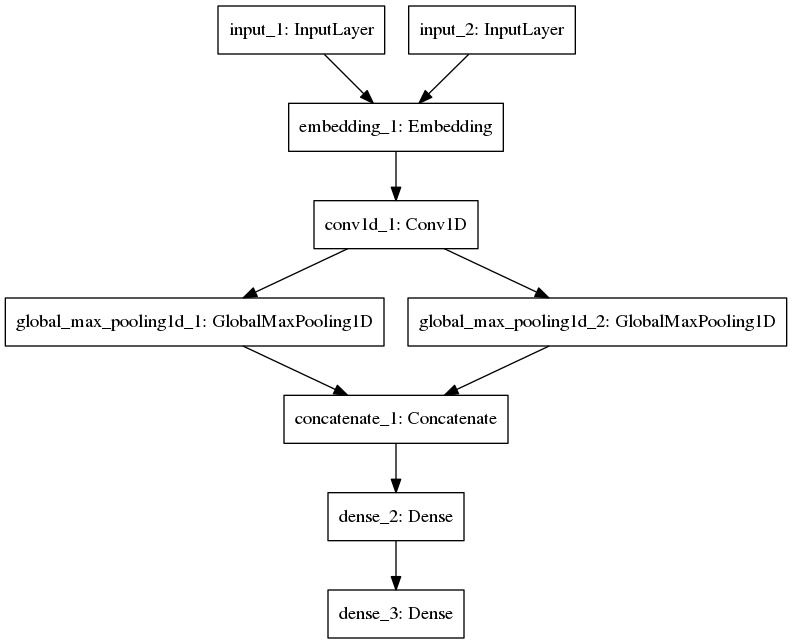
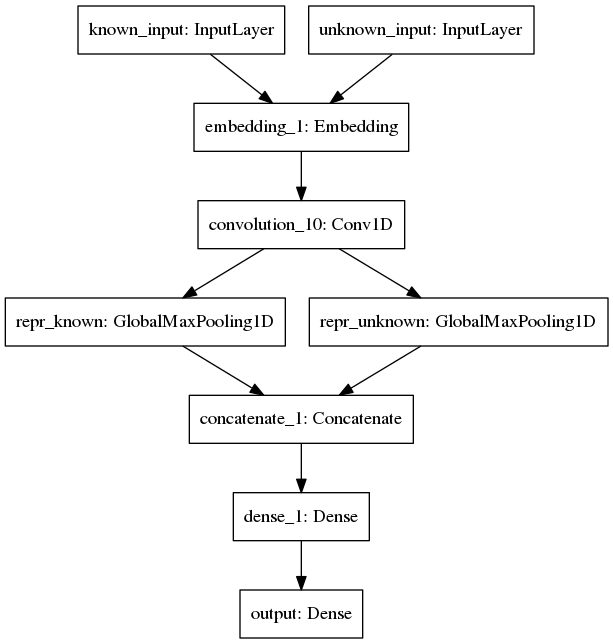
Add names to network 1

diff --git a/report/method.tex b/report/method.tex
@@ -41,13 +41,12 @@ illustrated in Figure \ref{fig:profile_based}.
     \label{fig:profile_based}
 \end{figure}
 
-We will generally use the instance based approach and we will generally use
-Authorship Verification. The reason we use an instance based approach is that it
-allows us to use extra information from each single text. For example writing
-style may change over time especially for secondary school pupils that evolve
-very much in a short amount of time. Since we use an instance based approach we
-are able to weight similarity to newer texts higher than similarity to older
-texts.
+We will generally use the instance based approach. The reason we use an instance
+based approach is that it allows us to use extra information from each single
+text. For example writing style may change over time especially for secondary
+school pupils that evolve very much in a short amount of time. Since we use an
+instance based approach we are able to weight similarity to newer texts higher
+than similarity to older texts.
 
 There are also another split between methods that we consider. There are
 generalizing and author specific models. In a generalizing model only a single
@@ -66,8 +65,8 @@ model once.
 
 As a unit of measuring the quality of our models, and how well they adhere to
 95\% specificity constraint, we will also compute the number of \gls{TP}s,
-\gls{TN}s, \gls{FP}s and \gls{FN}s, as was done
-in a project previously created by us.\cite{US} In these problems we get,
+\gls{TN}s, \gls{FP}s and \gls{FN}s, as was done in a project previously created
+by us.\cite{US} In these problems we get,
 
 \begin{itemize}
     \item a \gls{TP} whenever we answer \textit{True} and the texts are written
@@ -222,7 +221,7 @@ max-over-time pooling layer. The layer takes the maximum value of each feature
 such that we have 1000 features from each text. We then have a normal dense
 neural network on top of that which are given the features of both texts. The
 dense network is then supposed to learn how to compare the features from the two
-texts. We have 2 dense hidden layers each with 500 neurons. At the end we have
+texts. We have 1 dense hidden layer each with 500 neurons. At the end we have
 a output layer with two outputs. The activation function for all layers except
 the last one is the rectified linear unit and the activation function of the
 last layer is the softmax function. The output of the network is a probability
@@ -236,7 +235,7 @@ embeddings will be learned while the network is training.
 
 \begin{figure}[htb]
     \centering
-    \includegraphics[width=0.8\textwidth]{./pictures/method/network1.png}
+    \includegraphics[width=0.6\textwidth]{./pictures/method/network1.png}
     \caption{Illustrate the structure of our first Siamese Neural Network
         Architecture.}
     \label{fig:network_1}

diff --git a/src/networks/network1.py b/src/networks/network1.py
@@ -43,22 +43,24 @@ reader = MacomReader(
 with reader as generator:
     inshape = (generator.max_len, )
 
-    known_in = Input(shape=inshape)
-    unknown_in = Input(shape=inshape)
+    known_in = Input(shape=inshape, name='known_input')
+    unknown_in = Input(shape=inshape, name='unknown_input')
 
     embedding = Embedding(len(generator.vocabulary_above_cutoff) + 2, 5,
                           input_length=generator.max_len)
 
     conv = Convolution1D(filters=1000, kernel_size=10, strides=1,
-                         activation='relu')
+                         activation='relu', name='convolution_10')
 
-    repr_known = GlobalMaxPooling1D()(conv(embedding(known_in)))
-    repr_unknown = GlobalMaxPooling1D()(conv(embedding(unknown_in)))
+    repr_known = GlobalMaxPooling1D(name='repr_known')(
+        conv(embedding(known_in)))
+    repr_unknown = GlobalMaxPooling1D(name='repr_unknown')(
+        conv(embedding(unknown_in)))
 
     full_input = Concatenate()([repr_known, repr_unknown])
 
     dense = Dense(500, activation='relu')(full_input)
-    output = Dense(2, activation='softmax')(dense)
+    output = Dense(2, activation='softmax', name='output')(dense)
 
     model = Model(inputs=[known_in, unknown_in], outputs=output)
     model.compile(optimizer='adam',
